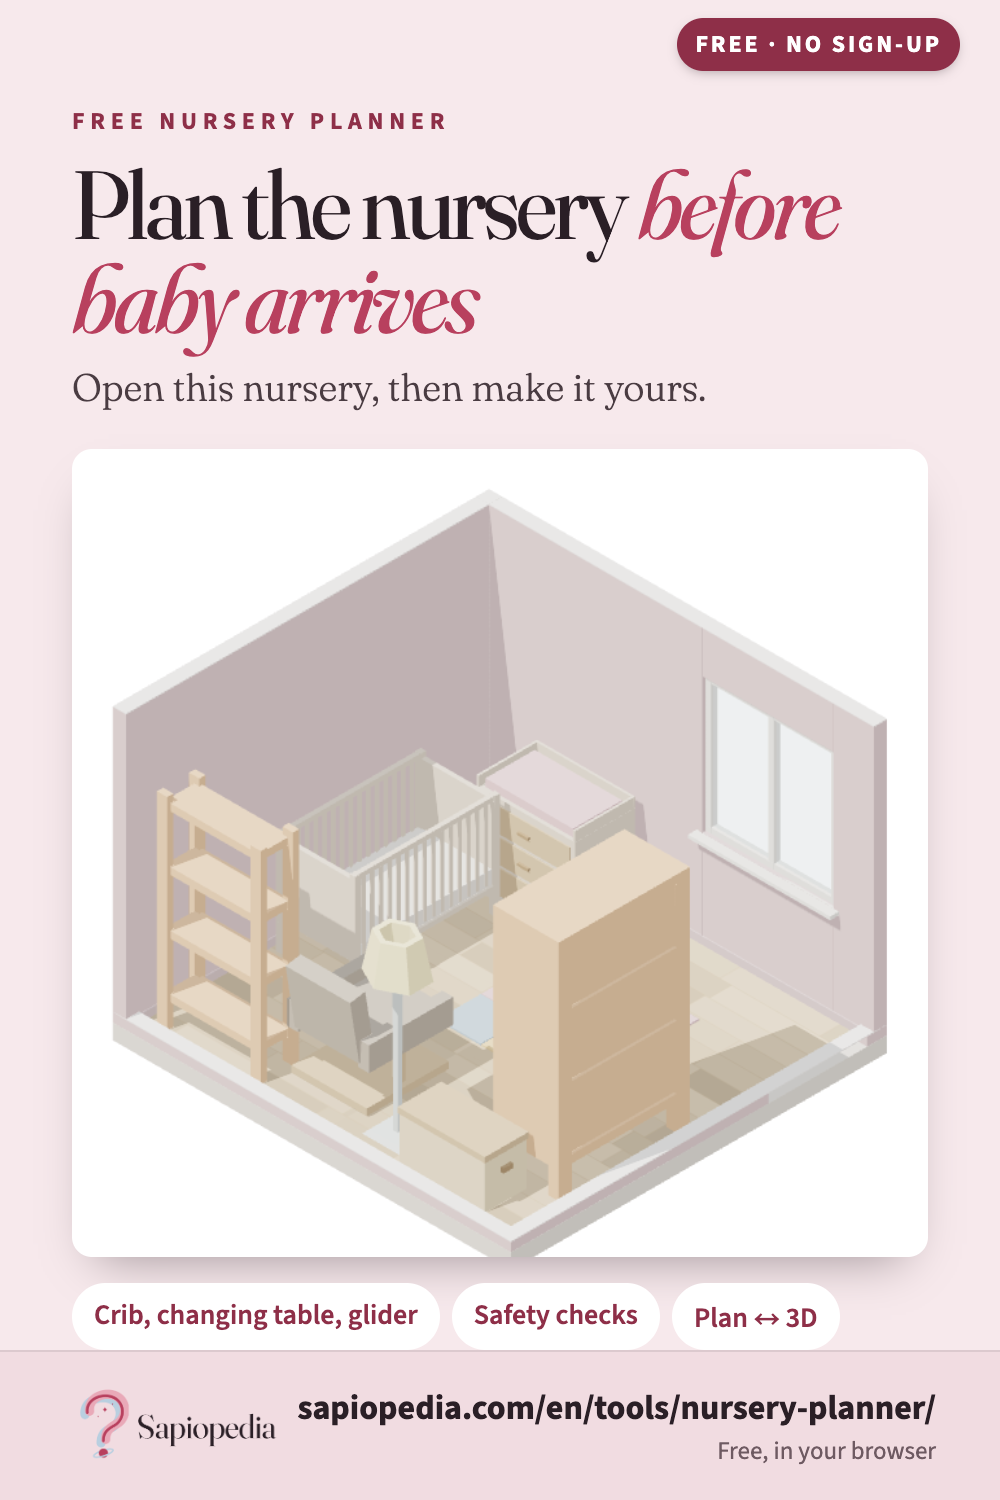
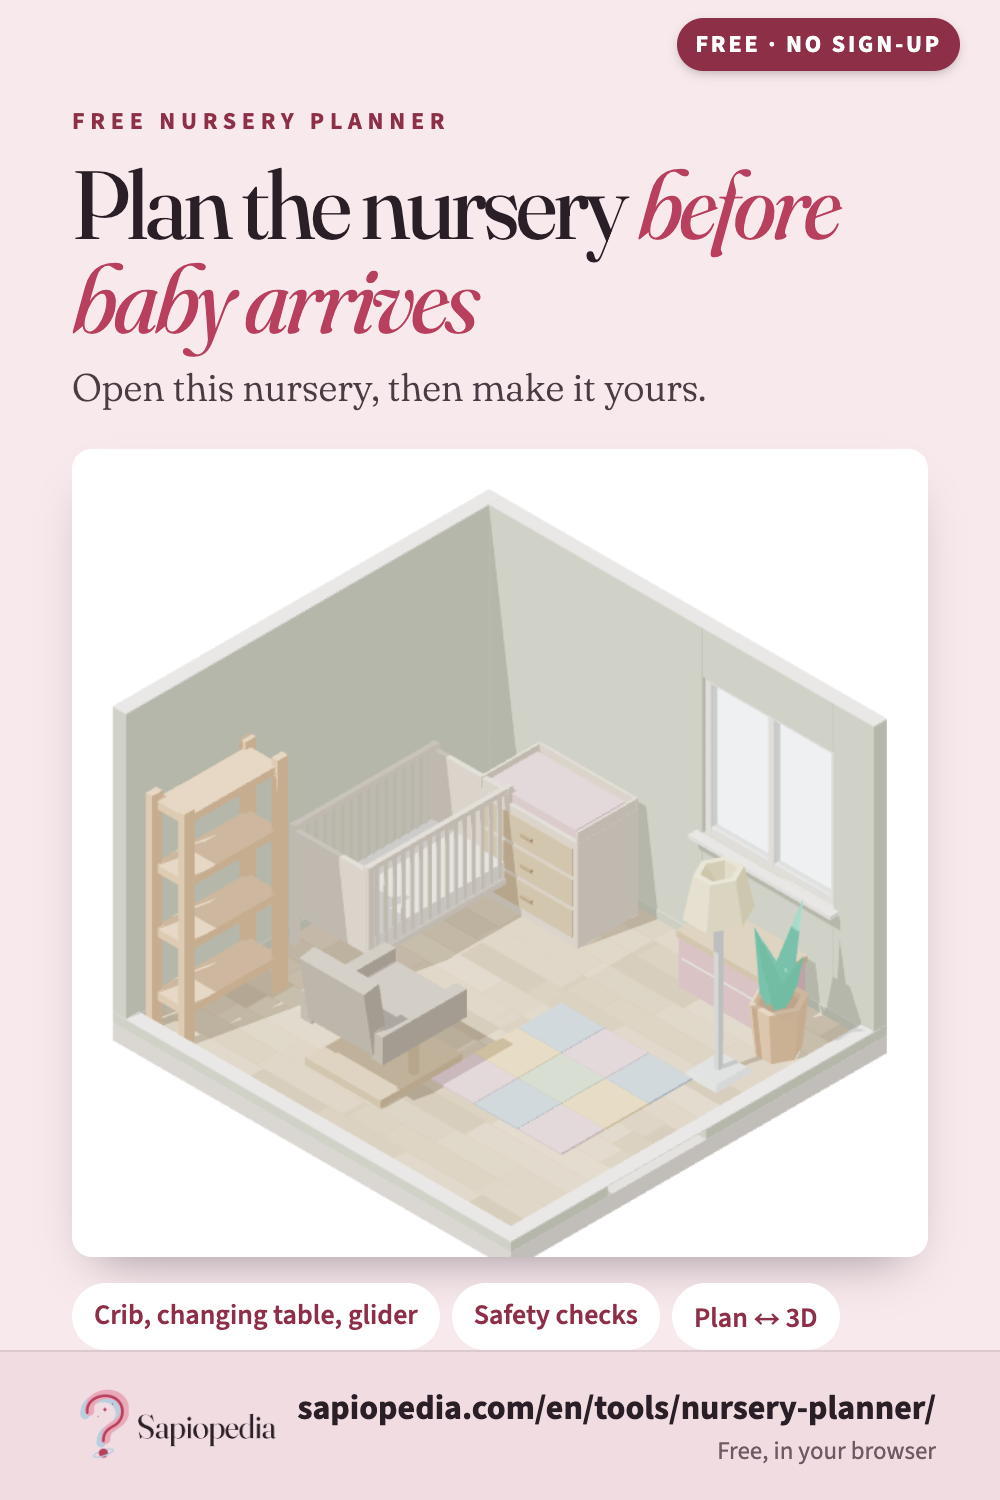
Nursery example: crib and changing table on the back walls, nothing tall in front; pink toy chest

Changed region(s): [[0.124, 0.4907, 0.527, 0.7667], [0.434, 0.552, 0.868, 0.828], [0.496, 0.5827, 0.527, 0.6133]]

diff --git a/assets/fengshui.js b/assets/fengshui.js
@@ -159,7 +159,7 @@ const PRESETS={
  "home-office":{room:R4(3.6,3.2),items:[["desk",320,212],["office",320,268,180],["shelf",190,300],["armchair",430,400,90],["lamp",440,220],["plant",196,212],["rug",320,320]],opens:[["door",2,0.8],["window",1,0.4]],look:{floor:"grey",wall:"#C9D6E0"}},
  "kitchen-diner":{room:R4(5,4),items:[["countertop",330,185],["stove",434,185],["fridge",492,250],["tableRound",290,350],["chair",290,290,0],["chair",290,410,180],["chair",230,350,270],["chair",350,350,90],["plant",140,445],["shelf",125,330],["lamp",145,190]],opens:[["door",2,0.2],["window",1,0.7]],look:{floor:"tile",wall:"#F4F2EE"}},
  "bathroom":{room:R4(3,2.6),items:[["bathtub",370,225],["toilet",212,350],["washbasin",212,262],["rug",300,330],["plant",420,300]],opens:[["door",2,0.4],["mirror",3,0.5],["window",0,0.85]],look:{floor:"tile",wall:"#C9D6E0"}},
- "nursery":{room:R4(3.4,3.2),items:[["crib",213,300],["changing",260,214],["glider",300,395],["wardrobe",432,360],["toychest",400,432],["playmat",340,290],["shelf",230,434],["lamp",350,425]],opens:[["door",1,0.16],["window",0,0.75]],look:{floor:"light",wall:"#E6D3D8"}},
+ "nursery":{room:R4(3.4,3.2),items:[["crib",213,290],["changing",262,214],["toychest",390,208],["glider",300,385],["playmat",375,330],["lamp",428,268],["plant",436,232],["shelf",198,410]],opens:[["door",1,0.62],["window",0,0.75]],look:{floor:"light",wall:"#D5DCCB"}},
  "shared-nursery":{room:R4(4,3.6),items:[["bed",300,256],["nightstand",226,192],["nightstand",374,192],["bassinet",420,290],["wardrobe",184,400],["rug",300,370],["glider",430,385],["lamp",200,250]],opens:[["door",2,0.6],["window",0,0.85]],look:{floor:"oak",wall:"#D5DCCB"}},
  "kids-room":{room:R4(3.8,3.4),items:[["bunk",204,264],["desk",410,200],["chair",410,254,180],["shelf",458,338],["rug",320,330],["armchair",210,410,270],["plant",330,438],["lamp",190,360]],opens:[["door",2,0.15],["window",0,0.55]],look:{floor:"light",wall:"#C9D6E0"}}
 };

diff --git a/assets/room3d-gl.js b/assets/room3d-gl.js
@@ -98,10 +98,10 @@ export function create(A, look) {
       b.position.y = (h - seatY) / 2; back.add(b); back.position.set(0, seatY, -f.h / 2 + cm(10)); back.rotation.x = -.16; grp.add(back);
     },
     toychest(f, h, box) {   /* box with an overhanging lid and two handles */
-      box(f.w - cm(2), h - cm(5), f.h - cm(2), 0, (h - cm(5)) / 2, 0, M(0xF1E3C6));
+      box(f.w - cm(2), h - cm(5), f.h - cm(2), 0, (h - cm(5)) / 2, 0, M(0xE8BFC9));
       box(f.w, cm(5), f.h, 0, h - cm(2.5), 0, WOOD2);
       [-1, 1].forEach(a => box(cm(3), cm(4), cm(9), a * (f.w / 2), h * .6, 0, M(0xB8A182)));
-      box(f.w - cm(10), cm(1), cm(1), 0, h * .55, f.h / 2, M(0xE7C2CB));
+      box(f.w - cm(10), cm(1), cm(1), 0, h * .55, f.h / 2, M(0xF7EEE6));
     },
     playmat(f, h, box) {   /* 3 × 3 foam tiles in soft colours */
       const C = [0xB9CFE0, 0xF4D9A9, 0xEBCFD6, 0xC9DCC4], tw = f.w / 3, td = f.h / 3;
